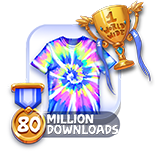
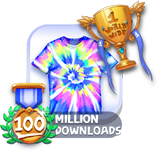
Stooooooooo !!!! 100 !!!!

diff --git a/index.html b/index.html
@@ -112,7 +112,7 @@
                                 	<br /><br />
                                 	#1 rank Worldwide with over 3 million downloads in under a week!<br />
 					50 million total downloads in less than 3 months!<br />
-					80 million total lifetime downloads!<br />
+					100 million total lifetime downloads!<br />
 									<br /><br />
                                 </div>
                             </div>
